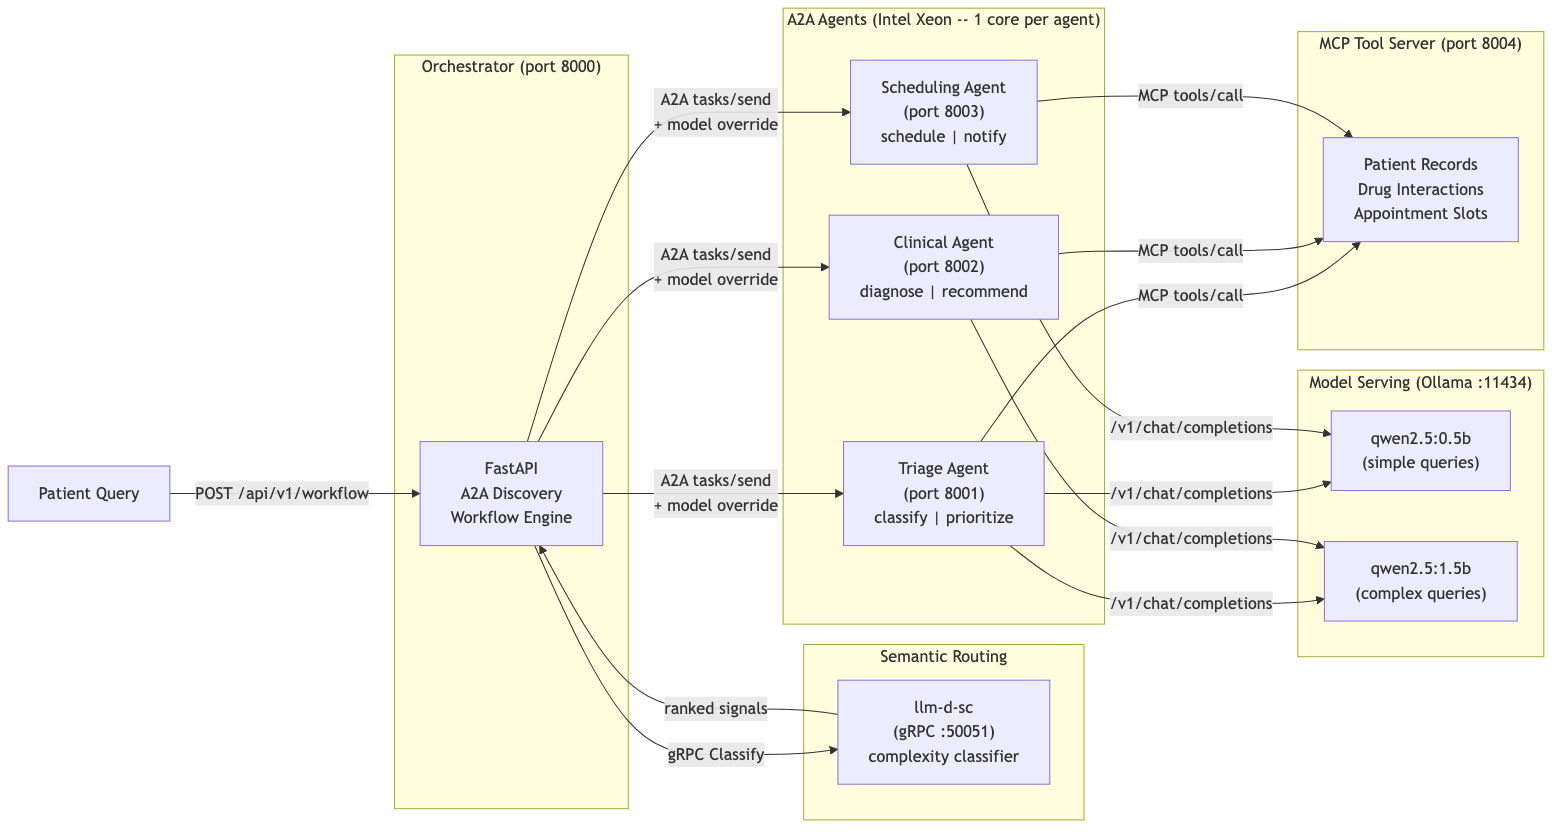
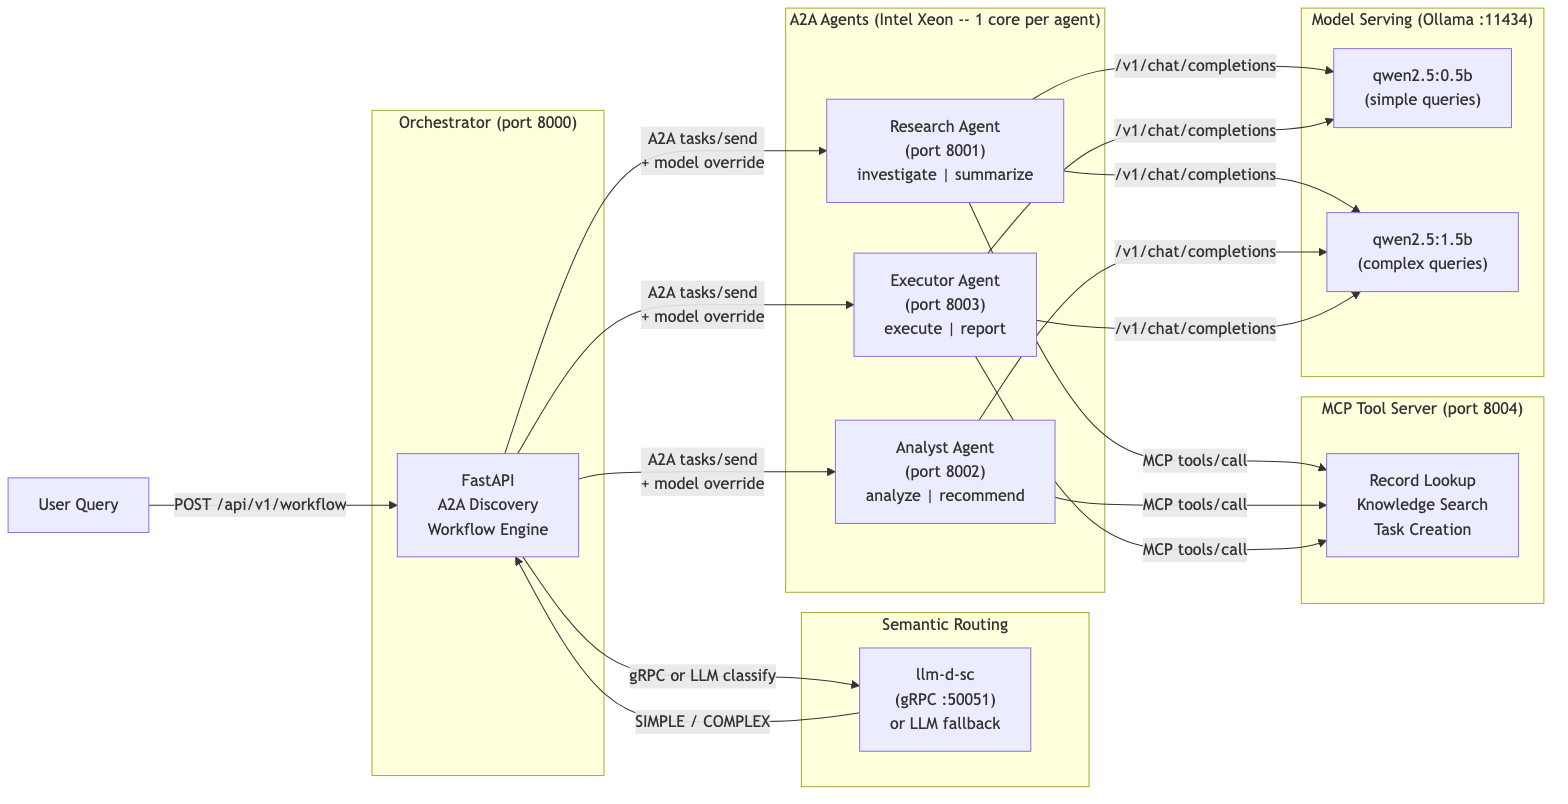
Fix 5 quickstart weaknesses
1. Semantic routing now works locally: when llm-d-sc is unavailable,
   the orchestrator falls back to LLM-based classification via Ollama
   (asks the model to classify SIMPLE/MEDIUM/COMPLEX/REASONING). No
   more "inactive" on demo.sh -- routing works out of the box.

2. Removed stale healthcare screenshot placeholder, updated
   architecture diagram to show "gRPC or LLM classify" fallback path.

3. Removed "roadmap" tracing claim from comparison table -- replaced
   with honest "per-step latency in workflow response."

4. Added worked customization example (support ticket system) to
   README showing exactly how to fork for a new domain.

5. Added test coverage for LLM fallback router (mode activation,
   inactive state). 69 tests passing.

Changed region(s): [[0.0, 0.0, 1.0, 0.9639], [0.5, 0.0, 0.7188, 0.0311]]

diff --git a/src/orchestrator.py b/src/orchestrator.py
@@ -48,6 +48,8 @@ AGENT_URLS = os.environ.get(
 
 SEMANTIC_ROUTER_ENDPOINT = os.environ.get("SEMANTIC_ROUTER_ENDPOINT", "")
 
+MODEL_ENDPOINT = os.environ.get("MODEL_ENDPOINT", "")
+MODEL_NAME = os.environ.get("MODEL_NAME", "qwen2.5:1.5b")
 MODEL_SIMPLE = os.environ.get("MODEL_SIMPLE", "qwen2.5:0.5b")
 MODEL_COMPLEX = os.environ.get("MODEL_COMPLEX", "qwen2.5:1.5b")
 
@@ -161,31 +163,58 @@ COMPLEXITY_TO_MODEL = {
 }
 
 
+LLM_CLASSIFY_PROMPT = (
+    "Classify the following query's complexity into exactly one label: "
+    "SIMPLE, MEDIUM, COMPLEX, or REASONING.\n\n"
+    "SIMPLE = single fact lookup, status check, or straightforward action.\n"
+    "MEDIUM = requires some analysis or a multi-step procedure.\n"
+    "COMPLEX = requires deep investigation, synthesis across domains, or architecture.\n"
+    "REASONING = requires formal reasoning, proofs, or multi-step logical deduction.\n\n"
+    "Reply with ONLY the label, nothing else.\n\nQuery: {query}"
+)
+
+VALID_LABELS = {"SIMPLE", "MEDIUM", "COMPLEX", "REASONING"}
+
+
 class SemanticRouter:
-    """Classifies queries via llm-d-sc gRPC and selects workflows."""
+    """Classifies queries via llm-d-sc gRPC or LLM fallback."""
 
     def __init__(self, endpoint: str):
         self.endpoint = endpoint
         self.channel = None
         self.stub = None
+        self.mode = "inactive"
 
     async def connect(self):
-        if not GRPC_AVAILABLE:
-            logger.warning("grpc not installed -- semantic routing disabled")
-            return
-        if not self.endpoint:
-            return
-        try:
-            self.channel = grpc.aio.insecure_channel(self.endpoint)
-            self.stub = classify_pb2_grpc.ClassifyStub(self.channel)
-            logger.info("Semantic router connected: %s", self.endpoint)
-        except Exception as e:
-            logger.warning("Semantic router connection failed: %s", e)
-            self.stub = None
+        if self.endpoint and GRPC_AVAILABLE:
+            try:
+                self.channel = grpc.aio.insecure_channel(self.endpoint)
+                self.stub = classify_pb2_grpc.ClassifyStub(self.channel)
+                self.mode = "llm-d-sc"
+                logger.info("Semantic router connected (llm-d-sc): %s", self.endpoint)
+                return
+            except Exception as e:
+                logger.warning("llm-d-sc connection failed: %s", e)
+
+        if MODEL_ENDPOINT:
+            self.mode = "llm-fallback"
+            logger.info("Semantic router using LLM fallback via %s", MODEL_ENDPOINT)
+        else:
+            self.mode = "inactive"
+            logger.info("Semantic routing disabled (no llm-d-sc or LLM endpoint)")
+
+    @property
+    def active(self) -> bool:
+        return self.mode != "inactive"
 
     async def classify(self, text: str) -> Optional[models.ClassificationResult]:
-        if not self.stub:
-            return None
+        if self.mode == "llm-d-sc" and self.stub:
+            return await self._classify_grpc(text)
+        elif self.mode == "llm-fallback":
+            return await self._classify_llm(text)
+        return None
+
+    async def _classify_grpc(self, text: str) -> Optional[models.ClassificationResult]:
         start = time.monotonic()
         try:
             request = classify_pb2.ClassifyRequest(
@@ -196,10 +225,8 @@ class SemanticRouter:
             latency_ms = round((time.monotonic() - start) * 1000, 2)
 
             if response.status != classify_pb2.OK:
-                logger.warning(
-                    "Semantic router returned status %s", response.status
-                )
-                return None
+                logger.warning("llm-d-sc returned status %s, falling back", response.status)
+                return await self._classify_llm(text)
 
             signals = [
                 models.ClassificationSignal(label=s.label, score=round(s.score, 4))
@@ -218,7 +245,47 @@ class SemanticRouter:
                 latency_ms=latency_ms,
             )
         except Exception as e:
-            logger.warning("Semantic classification failed: %s", e)
+            logger.warning("llm-d-sc classify failed (%s), trying LLM fallback", e)
+            return await self._classify_llm(text)
+
+    async def _classify_llm(self, text: str) -> Optional[models.ClassificationResult]:
+        if not MODEL_ENDPOINT:
+            return None
+        start = time.monotonic()
+        try:
+            async with httpx.AsyncClient(timeout=15.0) as client:
+                resp = await client.post(
+                    f"{MODEL_ENDPOINT}/chat/completions",
+                    json={
+                        "model": MODEL_NAME,
+                        "messages": [
+                            {"role": "user", "content": LLM_CLASSIFY_PROMPT.format(query=text[:500])},
+                        ],
+                        "temperature": 0,
+                        "max_tokens": 10,
+                    },
+                )
+                resp.raise_for_status()
+                data = resp.json()
+            raw = data["choices"][0]["message"]["content"].strip().upper()
+            label = raw.split()[0].strip(".,!") if raw else "COMPLEX"
+            if label not in VALID_LABELS:
+                label = "COMPLEX"
+            latency_ms = round((time.monotonic() - start) * 1000, 2)
+
+            selected = COMPLEXITY_TO_WORKFLOW.get(label, "comprehensive")
+            model_tier = COMPLEXITY_TO_MODEL.get(label, "complex")
+
+            return models.ClassificationResult(
+                classifier_id="llm-fallback",
+                status="ok",
+                signals=[models.ClassificationSignal(label=label, score=1.0)],
+                selected_workflow=selected,
+                selected_model=model_tier,
+                latency_ms=latency_ms,
+            )
+        except Exception as e:
+            logger.warning("LLM classification failed: %s", e)
             return None
 
     async def close(self):
@@ -261,7 +328,7 @@ async def execute_workflow(
 
     model_override = ""
 
-    if workflow_type == "auto" and semantic_router.stub:
+    if workflow_type == "auto" and semantic_router.active:
         classification = await semantic_router.classify(query)
         if classification:
             workflow_type = classification.selected_workflow
@@ -357,8 +424,7 @@ semantic_router = SemanticRouter(SEMANTIC_ROUTER_ENDPOINT)
 @asynccontextmanager
 async def lifespan(app: FastAPI):
     """Discover agents and connect to semantic router on startup."""
-    if SEMANTIC_ROUTER_ENDPOINT:
-        await semantic_router.connect()
+    await semantic_router.connect()
 
     urls = [u.strip() for u in AGENT_URLS.split(",") if u.strip()]
     logger.info("Discovering %d agents...", len(urls))
@@ -409,7 +475,7 @@ async def health():
         "status": "healthy",
         "agents_discovered": len(agents),
         "agent_names": [a.name for a in agents],
-        "semantic_routing": "active" if semantic_router.stub else "inactive",
+        "semantic_routing": semantic_router.mode,
     }
 
 

diff --git a/tests/unit/test_multi_agent.py b/tests/unit/test_multi_agent.py
@@ -578,11 +578,31 @@ class TestSemanticRouting:
         request = models.WorkflowRequest(query="test query")
         assert request.workflow_type == "auto"
 
-    def test_semantic_router_fallback_comprehensive(self):
-        """SemanticRouter with no endpoint returns None from classify."""
-        router = orchestrator.SemanticRouter("")
-        result = _run(router.classify("test"))
-        assert result is None
+    def test_semantic_router_inactive_returns_none(self):
+        """SemanticRouter with no endpoint and no LLM returns None."""
+        original = orchestrator.MODEL_ENDPOINT
+        orchestrator.MODEL_ENDPOINT = ""
+        try:
+            router = orchestrator.SemanticRouter("")
+            _run(router.connect())
+            assert router.mode == "inactive"
+            assert not router.active
+            result = _run(router.classify("test"))
+            assert result is None
+        finally:
+            orchestrator.MODEL_ENDPOINT = original
+
+    def test_semantic_router_llm_fallback_activates(self):
+        """SemanticRouter uses LLM fallback when MODEL_ENDPOINT is set."""
+        original = orchestrator.MODEL_ENDPOINT
+        orchestrator.MODEL_ENDPOINT = "http://fake:11434/v1"
+        try:
+            router = orchestrator.SemanticRouter("")
+            _run(router.connect())
+            assert router.mode == "llm-fallback"
+            assert router.active
+        finally:
+            orchestrator.MODEL_ENDPOINT = original
 
 
 # ---------------------------------------------------------------------------

diff --git a/README.md b/README.md
@@ -54,8 +54,6 @@ A bearer token authentication middleware secures inter-agent communication on th
 
 A demo mode is available for evaluation and development without LLM backends. All responses carry an AI disclaimer.
 
-![Screenshot of Multi-Agent Quickstart UI](docs/images/screenshot.png)
-
 ### Architecture diagrams
 
 ```mermaid
@@ -112,10 +110,10 @@ This quickstart runs locally on CPU or on Red Hat OpenShift. Choose the path tha
 | **Hardware** | 4 CPU cores, 8 GiB memory | 6+ CPU cores, 12 GiB memory |
 | **Software** | Python 3.9+, Ollama | OpenShift 4.14+, Helm 3.12+ |
 | **Models** | Ollama serves both locally | Ollama in-cluster or external MaaS |
-| **Semantic routing** | Optional (needs llm-d-sc binary) | Included (containerized llm-d-sc) |
+| **Semantic routing** | LLM-based fallback (uses Ollama) | llm-d-sc (sub-20ms) + LLM fallback |
 | **Sandboxing** | Process-level isolation | Pod SecurityContext, restricted profiles |
 | **Auth** | Shared bearer token (optional) | K8s Secrets, service account tokens |
-| **Tracing** | Log-based latency tracking | OpenTelemetry to Jaeger/Tempo (roadmap) |
+| **Tracing** | Log-based latency tracking | Per-step latency in workflow response |
 | **Time to first workflow** | ~2 minutes | ~10 minutes |
 
 ### Minimum hardware requirements
@@ -277,6 +275,42 @@ This quickstart is designed to be forked and customized. Three files define the 
 3. **`docker-compose.yml` / `chart/values.yaml`** -- Rename services and update environment variables to match your agent names.
 
 Everything else -- the orchestrator, semantic router, auth middleware, Gradio UI, test framework, and Helm templates -- works for any domain without modification.
+
+**Example: building a support ticket system.** To turn this into a support ticket agent:
+
+```python
+# In src/agent.py, replace the AGENT_CONFIGS entry:
+AGENT_CONFIGS = {
+    "classifier": {
+        "description": "Classifies incoming support tickets by category and urgency.",
+        "skills": [
+            AgentSkill(id="classify", name="Classify Ticket", description="..."),
+        ],
+    },
+    "resolver": {
+        "description": "Suggests resolutions by searching past tickets and KB articles.",
+        "skills": [
+            AgentSkill(id="resolve", name="Suggest Resolution", description="..."),
+        ],
+    },
+    "dispatcher": {
+        "description": "Assigns tickets to the right team and sends notifications.",
+        "skills": [
+            AgentSkill(id="dispatch", name="Dispatch Ticket", description="..."),
+        ],
+    },
+}
+
+# In src/mcp_server.py, replace the tools:
+# - lookup_ticket(ticket_id) -- fetch from your ticket system API
+# - search_past_resolutions(keywords) -- search resolved ticket history
+# - assign_ticket(ticket_id, team) -- assign via your ticketing API
+
+# In docker-compose.yml, rename the services:
+# research-agent -> classifier-agent, analyst-agent -> resolver-agent, etc.
+```
+
+The orchestrator, semantic routing, auth, and UI work unchanged -- they only care about agent names and the A2A protocol, not what the agents do internally.
 
 ## Repository structure
 
